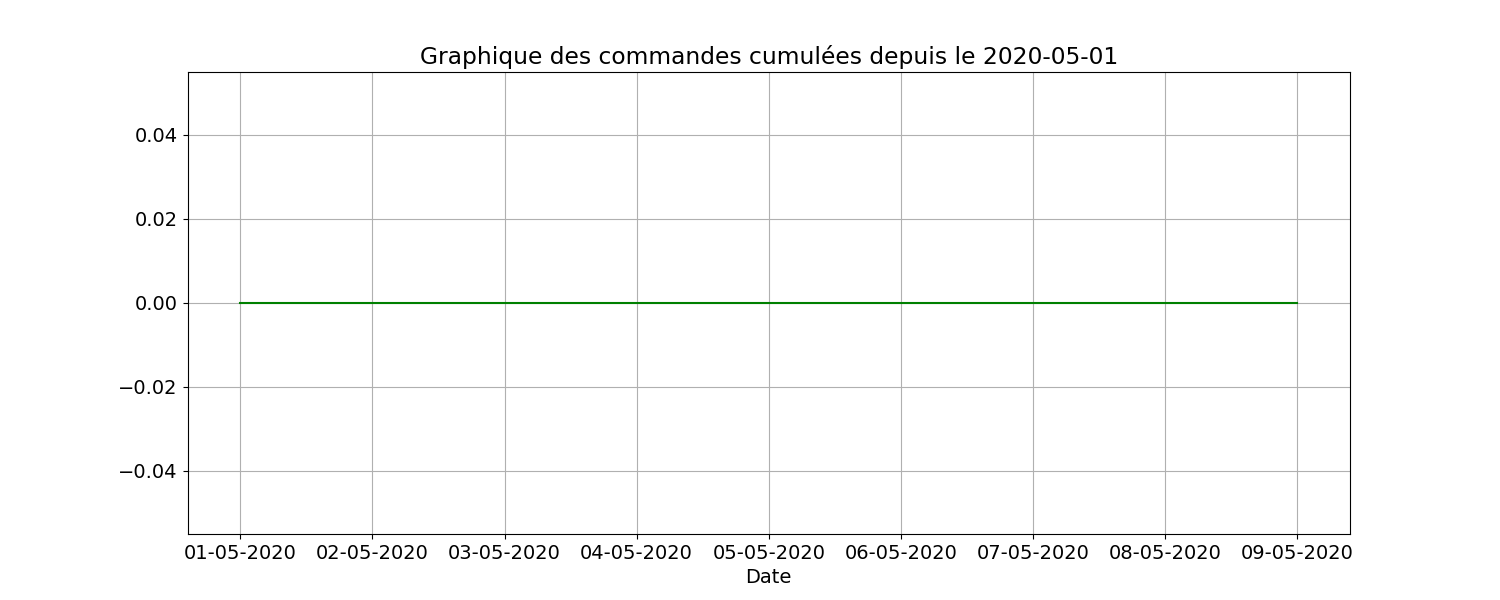
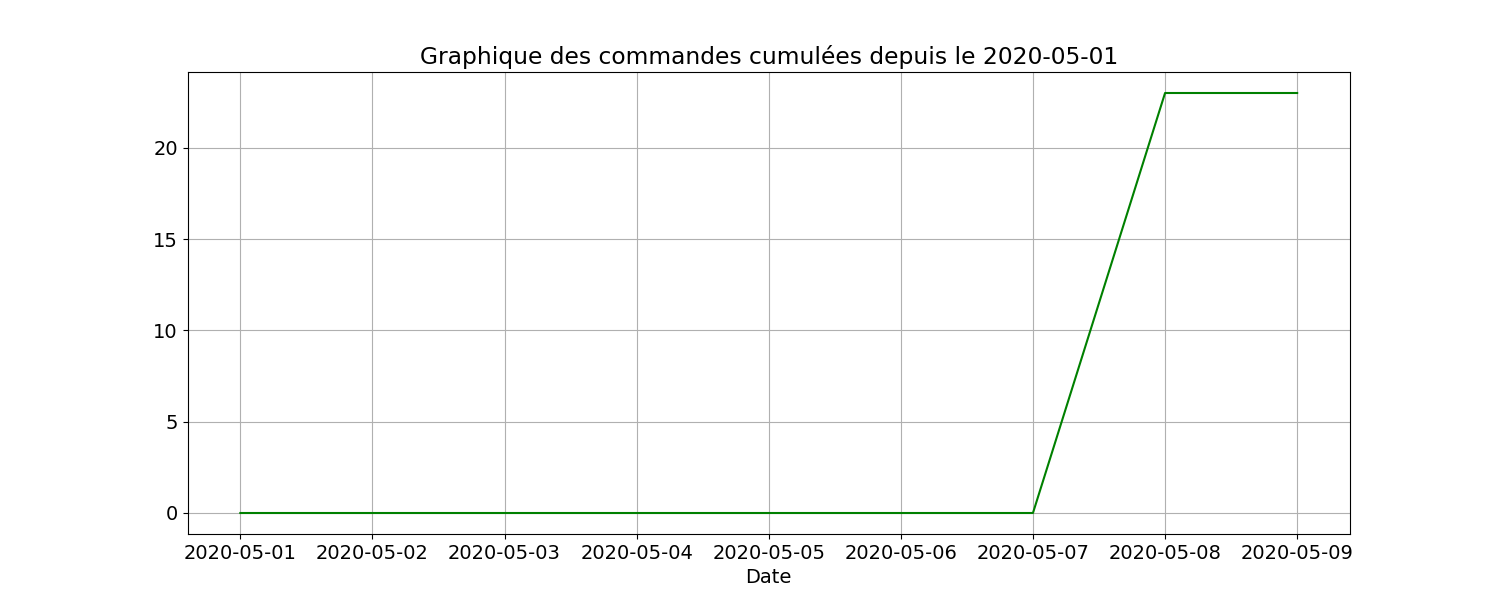
change path to files json in "Arrondissement_Map" et prise en compte des NaN values

diff --git a/Projet_Python/Projet_Python/methode_JSON/methodes_Statistiques.py b/Projet_Python/Projet_Python/methode_JSON/methodes_Statistiques.py
@@ -151,15 +151,16 @@ def GraphTotalCommande():
 
 
 def Arrondissement_Map():
-    with open('/Users/vince/Downloads/arrondissements.geojson') as json_file:
+    with open('./JSON/arrondissements.geojson') as json_file:
         data_arrondissements = json.load(json_file)
 
 
-    with open('/Users/vince/Downloads/commandes_faites.json') as json_file:
+    with open('./JSON/commandes_faites.json') as json_file:
         fichier = json.load(json_file)
         commandes=fichier['commandes']
 
     df = pd.DataFrame(commandes)
+    df = df.fillna(0) #si une commande contient certains produits mais pas d'autres, leur valeur dans le dataframe sera "NaN" et ne pourra être lu lors de la conversion en int
     convert_dict = {"Frites":int}
     df = df.astype(convert_dict)
 
